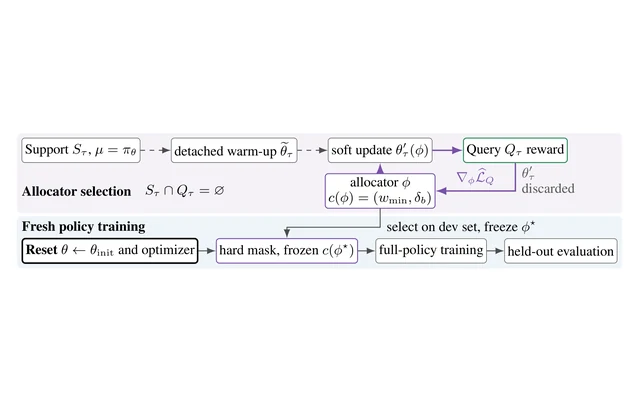
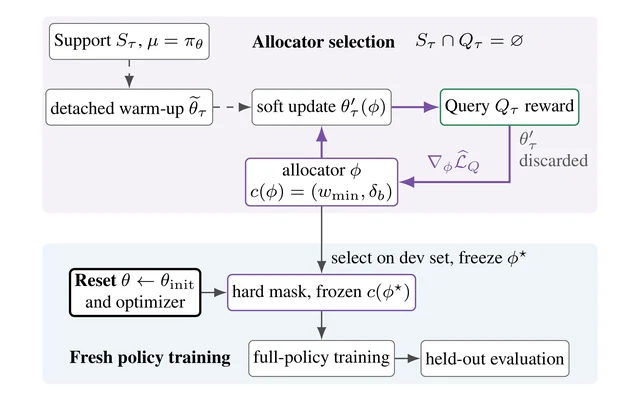
Re-lay out the Meta-TA overview to fill its thumbnail
The paper's Figure 2 is about 4.3:1, which left wide white bands in
the 16:10 thumbnail. Add a TikZ copy adapted from the paper source
(illustrations/fig_meta_ta_overview.tikz) with the same nodes, arrows,
colors and fonts, arranged in three columns so it fills the frame.

diff --git a/images/publications/tikz/meta-trust.tex b/images/publications/tikz/meta-trust.tex
@@ -1,0 +1,59 @@
+% Learning Where to Constrain: Meta-Learned Trust Allocation for LLM RL Reasoning
+% Figure 2 (Meta-TA overview) of the paper, re-laid out into three columns so it fills a 16:10
+% thumbnail. Adapted from illustrations/fig_meta_ta_overview.tikz in the paper sources: same
+% nodes, arrows, colors and fonts.
+\documentclass[tikz,border=1pt]{standalone}
+\usepackage{times}
+\usepackage{amsmath,amssymb}
+\usetikzlibrary{arrows.meta,positioning,calc,fit,backgrounds}
+\definecolor{querygreen}{HTML}{238653}
+\definecolor{cppoblue}{HTML}{187BAD}
+\definecolor{metapurple}{HTML}{7851A9}
+\begin{document}
+\begin{tikzpicture}[
+  >=Latex, font=\footnotesize,
+  blk/.style={draw=black!60, rounded corners=2pt, fill=white, align=center,
+    minimum height=0.56cm, inner xsep=2pt, inner ysep=2pt},
+  fwd/.style={->, line width=0.6pt, black!70},
+  det/.style={fwd, dashed},
+  diff/.style={->, line width=0.9pt, metapurple},
+  phase/.style={rounded corners=3pt, inner xsep=3pt, inner ysep=3pt},
+  tag/.style={font=\footnotesize\bfseries, anchor=west, inner sep=0pt}
+]
+% Allocator selection: support and warm-up (left column), soft update and allocator (middle),
+% query reward (right).
+\node[blk] (sup) at (0,0) {Support $S_\tau$, $\mu=\pi_\theta$};
+\node[blk, below=0.45 of sup] (warm) {detached warm-up $\widetilde\theta_\tau$};
+\node[blk, right=0.6 of warm] (soft) {soft update $\theta'_\tau(\phi)$};
+\node[blk, right=0.75 of soft, draw=querygreen, line width=0.6pt] (qry) {Query $Q_\tau$ reward};
+\node[blk, below=0.5 of soft, draw=metapurple, line width=0.6pt] (phi) {allocator $\phi$\\$c(\phi)=(w_{\min},\delta_b)$};
+\draw[det] (sup) -- (warm);
+\draw[det] (warm) -- (soft);
+\draw[diff] (soft) -- (qry);
+\draw[diff] (phi) -- (soft);
+\draw[diff] (qry.south) |- node[pos=0.75, above] {$\nabla_\phi\widehat{\mathcal L}_Q$} (phi.east);
+\node[text=black!65, anchor=north west, align=left, inner sep=1pt] (disc) at ([xshift=3pt,yshift=-1pt]qry.south) {$\theta'_\tau$\\discarded};
+\node[tag] (seltag) at (soft.west |- sup) {Allocator selection};
+\node[anchor=west, inner sep=0pt] (disj) at ([xshift=0.3cm]seltag.east) {$S_\tau\cap Q_\tau=\varnothing$};
+
+% Fresh policy training: reset -> hard mask (under the allocator) -> training -> evaluation.
+\node[blk, below=1.05 of phi, draw=metapurple, line width=0.6pt] (hard) {hard mask, frozen $c(\phi^\star)$};
+\node[blk, left=0.4 of hard, draw=black, line width=1pt] (reset) {\textbf{Reset} $\theta\gets\theta_{\rm init}$\\and optimizer};
+\node[blk, below=0.45 of hard] (train) {full-policy training};
+\node[blk, right=0.4 of train] (eval) {held-out evaluation};
+\draw[fwd] (reset) -- (hard);
+\draw[fwd] (hard) -- (train);
+\draw[fwd] (train) -- (eval);
+\node[tag] (traintag) at (reset.west |- train) {Fresh policy training};
+\draw[fwd] (phi) -- (hard);
+\node[anchor=south west, inner sep=0pt] (freeze) at ([xshift=4pt,yshift=3pt]hard.north) {select on dev set, freeze $\phi^\star$};
+
+% Phase backgrounds spanning the same width.
+\path let \p1 = (reset.west), \p2 = (sup.west), \p3 = (disc.east), \p4 = (eval.east), \p5 = (disj.east) in
+  coordinate (xl) at ({min(\x1,\x2)}, 0) coordinate (xr) at ({max(\x3,\x4,\x5)}, 0);
+\begin{scope}[on background layer]
+\node[phase, fill=metapurple!7, fit=(sup)(phi)(disc)(disj)(xl |- sup)(xr |- phi.south)] {};
+\node[phase, fill=cppoblue!7, fit=(freeze)(reset)(train)(eval)(traintag)(xl |- train)(xr |- hard)] {};
+\end{scope}
+\end{tikzpicture}
+\end{document}
